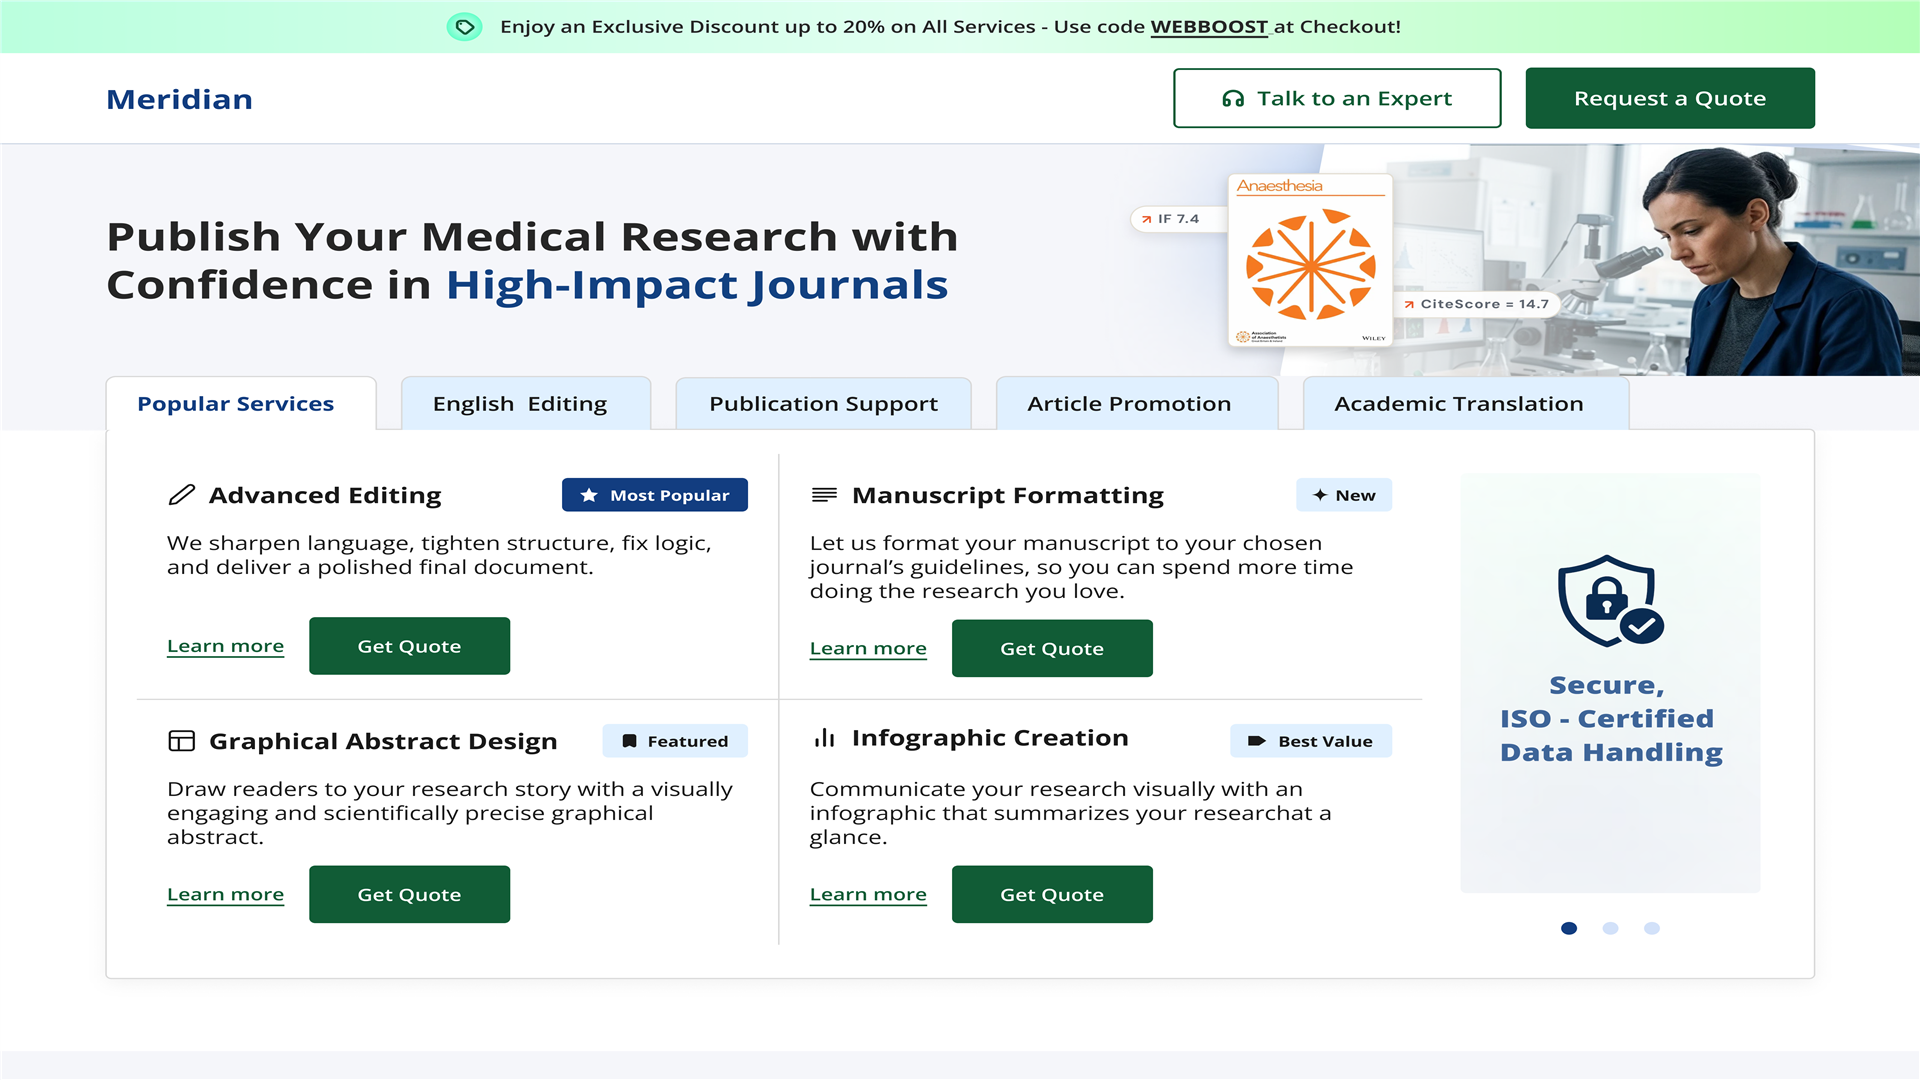
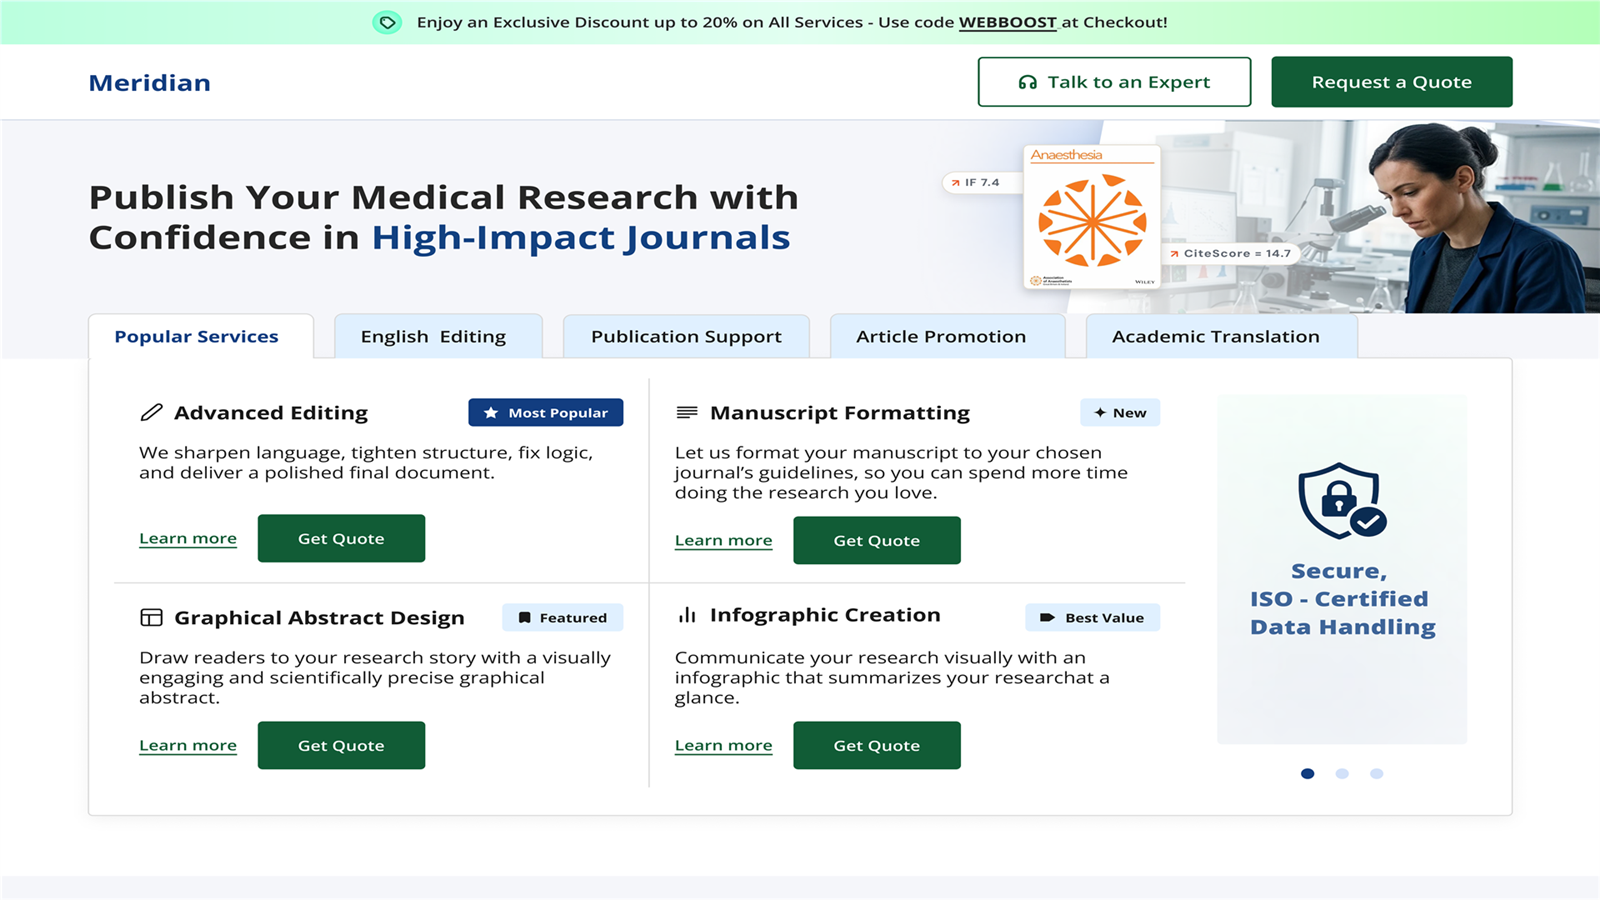
Resize images to 900px height

diff --git a/client/case-study.css b/client/case-study.css
@@ -1,6 +1,7 @@
 @import url('https://fonts.googleapis.com/css2?family=Inter:wght@400;500;600;700;800&display=swap');
 
-.case-study{--bg:#f5f7f2;--surface:#fff;--ink:#17231c;--muted:#516259;--green:#0b6b4f;--green2:#5b8f72;--pale:#e5efe8;--line:#dce6df;min-height:100vh;overflow-x:hidden;background:var(--bg);color:var(--ink);font-family:Inter,Helvetica,Arial,sans-serif;font-size:18px;line-height:1.65}.case-study *{box-sizing:border-box}.case-study .sheet{max-width:1240px;margin:auto;padding:0 48px}.case-study .masthead{padding:54px 0 86px;border-bottom:0}.case-study .journey{display:grid;grid-template-columns:repeat(4,1fr);gap:0;margin:0 0 112px;padding:0 0 24px;border-bottom:1px solid var(--line)}.case-study .journey>div{position:relative;display:grid;gap:3px;padding-right:24px}.case-study .journey>div:not(:last-child):after{content:'';position:absolute;top:8px;right:24px;width:calc(100% - 70px);height:1px;background:var(--green2)}.case-study .journey b{position:relative;z-index:1;width:max-content;padding-right:10px;background:var(--bg);color:var(--green);font-size:12px}.case-study .journey strong{font-size:16px;text-transform:uppercase;letter-spacing:.04em}.case-study .journey span{max-width:190px;color:var(--muted);font-size:13px;line-height:1.4}.case-study .masthead-top{display:flex;justify-content:space-between;gap:16px;margin-bottom:64px;color:var(--green);font:600 12px Inter,sans-serif;letter-spacing:.11em;text-transform:uppercase}.case-study .masthead-top span:last-child{color:var(--muted)}.case-study .doc-title{max-width:760px;margin:0;color:var(--ink);font:800 clamp(54px,8vw,92px)/.94 Inter,sans-serif;letter-spacing:-.07em}.case-study .doc-title em{color:var(--green);font-style:normal;font-weight:800}.case-study .doc-sub{max-width:700px;margin:34px 0 42px;color:var(--muted);font-size:23px;line-height:1.45;letter-spacing:-.025em}.case-study .byline{display:grid;grid-template-columns:repeat(4,max-content);gap:28px;padding-top:22px;color:var(--muted);font:500 13px/1.5 Inter,sans-serif;text-transform:uppercase;letter-spacing:.06em}.case-study .byline b{display:block;margin-bottom:3px;color:var(--green);font-size:11px}.case-study section{padding:112px 0;border-top:1px solid var(--line)}.case-study .abstract{padding:0 0 112px;border:0}.case-study .doc-row{display:grid;grid-template-columns:180px minmax(0,700px) 1fr;gap:36px}.case-study .margin-col{position:static;padding-top:7px}.case-study .sec-num{color:var(--green);font:700 12px Inter,sans-serif;letter-spacing:.12em}.case-study .sec-title{margin-top:10px;color:var(--muted);font:600 12px/1.35 Inter,sans-serif;letter-spacing:.08em;text-transform:uppercase}.case-study .content-col{max-width:700px}.case-study .title{margin:0 0 32px;color:var(--ink);font:700 clamp(38px,5vw,58px)/1.02 Inter,sans-serif;letter-spacing:-.055em}.case-study .content-col p{margin:0 0 22px;color:var(--muted);font-size:18px;line-height:1.65}.case-study .content-col .lead{color:var(--ink);font-size:21px;line-height:1.55}.case-study .abstract-box{max-width:700px;padding:24px 24px 24px 22px;border:1px solid var(--line);border-left:4px solid var(--ink);border-radius:4px;background:#fff;box-shadow:7px 7px 0 #e9eee9;color:var(--ink);font:500 18px/1.55 Inter,sans-serif;letter-spacing:-.01em}.case-study .abstract-box:before{display:none}.case-study .abstract-sources{display:flex;gap:8px;align-items:center}.case-study .abstract-sources span{display:inline-block;padding:3px 13px;border-radius:2px;background:#e8e9e3;color:#626b63;font:700 10px Inter,sans-serif;letter-spacing:.08em;text-transform:uppercase}.case-study .abstract-box:before{content:'THE PROJECT';display:block;margin-bottom:18px;color:var(--green);font:700 12px Inter,sans-serif;letter-spacing:.12em}.case-study .status-list{display:grid;gap:14px;margin:32px 0;padding:0;list-style:none}.case-study .status-list li{display:block;padding:14px 0;border-bottom:1px solid var(--line);color:var(--muted);font-size:15px}.case-study .traffic-pill,.case-study .status-pill{display:none}.case-study .signal-quote{margin:48px 0 10px;padding:44px 48px;background:var(--pale);border-left:5px solid var(--green);color:var(--ink);font:700 clamp(30px,4vw,48px)/1.08 Inter,sans-serif;letter-spacing:-.055em}.case-study .signal-quote span{display:none}.case-study .signal-cite{color:var(--green);font:600 12px Inter,sans-serif;letter-spacing:.08em;text-transform:uppercase}.case-study .fig{position:relative;width:100%;max-width:min(1180px,calc(100vw - 96px));margin:58px 0 20px}.case-study .fig-frame{position:relative;overflow:hidden;border:1px solid var(--line);border-radius:6px;background:var(--surface);box-shadow:none}.case-study .fig-frame img{display:block;max-width:100%;width:auto;height:auto;max-height:85vh;border-radius:4px;background:#f5f2ea;margin:0 auto}.case-study .tag{display:block;margin-bottom:14px;color:var(--green);font:700 11px Inter,sans-serif;letter-spacing:.1em;text-transform:uppercase}.case-study figcaption{margin-top:14px;color:var(--muted);font:500 12px Inter,sans-serif;letter-spacing:.04em}.case-study .marker{position:absolute;width:28px;height:28px;background:var(--green);box-shadow:0 0 0 3px #fff;color:#fff;font:700 11px Inter,sans-serif;display:grid;place-items:center;border-radius:50%}.case-study .marker.one{top:12px;left:12px}.case-study .marker.two{top:12px;right:12px}.case-study .annot-list{display:grid;gap:12px;margin:28px 0;padding:0;list-style:none}.case-study .annot-list li{display:grid;grid-template-columns:28px 1fr;gap:14px;color:var(--muted);font-size:15px}.case-study .annot-list .num{display:grid;place-items:center;width:23px;height:23px;border-radius:50%;background:var(--pale);color:var(--green);font:700 11px Inter,sans-serif}.case-study .redline-list{margin:48px 0;padding:0;border-top:1px solid var(--line);list-style:none}.case-study .redline-list li{display:grid;grid-template-columns:150px 1fr;gap:24px;padding:24px 0;border-bottom:1px solid var(--line)}.case-study .redline-label{color:var(--green);font:700 12px Inter,sans-serif;letter-spacing:.09em;text-transform:uppercase}.case-study .redline-body del,.case-study .redline-body ins{display:block;padding:0;text-decoration:none}.case-study .redline-body del{margin-bottom:8px;color:#84928a;text-decoration:line-through;text-decoration-color:var(--green2)}.case-study .redline-body ins{color:var(--ink);background:none;border:0}.case-study .subhead{margin:52px 0 12px;color:var(--ink);font-size:20px}.case-study .stat-note{color:var(--muted);font-size:17px}.case-study .stat-strip{display:grid;grid-template-columns:repeat(4,1fr);gap:12px;margin-top:40px;border:0}.case-study .stat{padding:26px 20px;border:1px solid var(--line);border-radius:6px;background:var(--surface)}.case-study .stat .num{display:block;color:var(--green);font:700 clamp(24px,3vw,38px)/1.1 Inter,sans-serif;letter-spacing:-.05em}.case-study .stat .lbl{display:block;margin-top:10px;color:var(--muted);font:600 11px Inter,sans-serif;letter-spacing:.08em;text-transform:uppercase}.case-study .baseline-flag{display:inline-block;margin:20px 0;padding:6px 0;color:var(--green);background:none;font:700 11px Inter,sans-serif;letter-spacing:.1em;text-transform:uppercase}.case-study .principles{margin-top:18px;border-top:1px solid var(--line)}.case-study .principle{display:grid;grid-template-columns:70px 1fr;gap:24px;padding:32px 0;border-bottom:1px solid var(--line)}.case-study .rn{color:var(--green);font:700 28px Inter,sans-serif}.case-study .principle h3{margin:0 0 8px;color:var(--ink);font-size:21px;letter-spacing:-.02em}.case-study .principle p{margin:0;color:var(--muted);font-size:16px}.case-study .timeline-block{margin-top:72px}.case-study .timeline-block h3{margin:0 0 28px;color:var(--ink);font:700 24px Inter,sans-serif;letter-spacing:-.03em}.case-study .timeline-block h3:after{content:'';display:block;width:42px;height:3px;margin-top:12px;background:var(--green)}.case-study .timeline-list{position:relative;margin-left:8px;padding:4px 0 4px 28px;border-left:1px solid var(--green2)}.case-study .timeline-item{position:relative;padding:0 0 14px}.case-study .timeline-item:before{content:'';position:absolute;top:21px;left:-33px;width:8px;height:8px;border:2px solid var(--bg);border-radius:50%;background:var(--green)}.case-study .timeline-card{padding:16px 0;border:0;background:none;box-shadow:none}.case-study .timeline-card time{color:var(--green);font:600 11px Inter,sans-serif}.case-study .timeline-card h4{margin:3px 0;color:var(--ink);font-size:15px}.case-study .timeline-card ul{margin:0;padding-left:16px;color:var(--muted);font-size:14px}.case-study .colophon{margin-top:0;padding:100px 0 80px;border-top:1px solid var(--line)}.case-study .colophon-grid{display:grid;grid-template-columns:repeat(3,1fr);gap:24px;color:var(--muted);font:13px/1.7 Inter,sans-serif}.case-study .colophon-grid b{display:block;margin-bottom:7px;color:var(--green);font:700 11px Inter,sans-serif;letter-spacing:.1em;text-transform:uppercase}.case-study .fine{max-width:620px;margin-top:44px;color:#76847b;font:12px/1.7 Inter,sans-serif}@media(max-width:900px){.case-study .sheet{padding:0 28px}.case-study .doc-row{grid-template-columns:100px minmax(0,1fr);gap:24px}.case-study .fig{width:100%}.case-study .byline{grid-template-columns:repeat(2,1fr)}}@media(max-width:700px){.case-study .journey{grid-template-columns:repeat(2,1fr);gap:22px;margin-bottom:76px}.case-study .journey>div:not(:last-child):after{display:none}.case-study .masthead{padding:32px 0 64px}.case-study .masthead-top{margin-bottom:48px;font-size:10px}.case-study .doc-title{font-size:clamp(48px,14vw,72px)}.case-study .doc-sub{font-size:20px}.case-study .byline{grid-template-columns:repeat(2,1fr);gap:20px 12px}.case-study section{padding:76px 0}.case-study .abstract{padding-bottom:76px}.case-study .doc-row{display:block}.case-study .margin-col{margin-bottom:22px}.case-study .title{font-size:40px}.case-study .abstract-box{font-size:21px}.case-study .signal-quote{padding:30px 24px;font-size:32px}.case-study .redline-list li{grid-template-columns:1fr;gap:8px}.case-study .stat-strip{grid-template-columns:repeat(2,1fr)}.case-study .stat{padding:18px 14px}.case-study .principle{grid-template-columns:45px 1fr;gap:14px}.case-study .colophon-grid{grid-template-columns:1fr}}
+.case-study{--bg:#f5f7f2;--surface:#fff;--ink:#17231c;--muted:#516259;--green:#0b6b4f;--green2:#5b8f72;--pale:#e5efe8;--line:#dce6df;min-height:100vh;overflow-x:hidden;background:var(--bg);color:var(--ink);font-family:Inter,Helvetica,Arial,sans-serif;font-size:18px;line-height:1.65}.case-study *{box-sizing:border-box}.case-study .sheet{max-width:1240px;margin:auto;padding:0 48px}.case-study .masthead{padding:54px 0 86px;border-bottom:0}.case-study .journey{display:grid;grid-template-columns:repeat(4,1fr);gap:0;margin:0 0 112px;padding:0 0 24px;border-bottom:1px solid var(--line)}.case-study .journey>div{position:relative;display:grid;gap:3px;padding-right:24px}.case-study .journey>div:not(:last-child):after{content:'';position:absolute;top:8px;right:24px;width:calc(100% - 70px);height:1px;background:var(--green2)}.case-study .journey b{position:relative;z-index:1;width:max-content;padding-right:10px;background:var(--bg);color:var(--green);font-size:12px}.case-study .journey strong{font-size:16px;text-transform:uppercase;letter-spacing:.04em}.case-study .journey span{max-width:190px;color:var(--muted);font-size:13px;line-height:1.4}.case-study .masthead-top{display:flex;justify-content:space-between;gap:16px;margin-bottom:64px;color:var(--green);font:600 12px Inter,sans-serif;letter-spacing:.11em;text-transform:uppercase}.case-study .masthead-top span:last-child{color:var(--muted)}.case-study .doc-title{max-width:760px;margin:0;color:var(--ink);font:800 clamp(54px,8vw,92px)/.94 Inter,sans-serif;letter-spacing:-.07em}.case-study .doc-title em{color:var(--green);font-style:normal;font-weight:800}.case-study .doc-sub{max-width:700px;margin:34px 0 42px;color:var(--muted);font-size:23px;line-height:1.45;letter-spacing:-.025em}.case-study .byline{display:grid;grid-template-columns:repeat(4,max-content);gap:28px;padding-top:22px;color:var(--muted);font:500 13px/1.5 Inter,sans-serif;text-transform:uppercase;letter-spacing:.06em}.case-study .byline b{display:block;margin-bottom:3px;color:var(--green);font-size:11px}.case-study section{padding:112px 0;border-top:1px solid var(--line)}.case-study .abstract{padding:0 0 112px;border:0}.case-study .doc-row{display:grid;grid-template-columns:180px minmax(0,700px) 1fr;gap:36px}.case-study .margin-col{position:static;padding-top:7px}.case-study .sec-num{color:var(--green);font:700 12px Inter,sans-serif;letter-spacing:.12em}.case-study .sec-title{margin-top:10px;color:var(--muted);font:600 12px/1.35 Inter,sans-serif;letter-spacing:.08em;text-transform:uppercase}.case-study .content-col{max-width:700px}.case-study .title{margin:0 0 32px;color:var(--ink);font:700 clamp(38px,5vw,58px)/1.02 Inter,sans-serif;letter-spacing:-.055em}.case-study .content-col p{margin:0 0 22px;color:var(--muted);font-size:18px;line-height:1.65}.case-study .content-col .lead{color:var(--ink);font-size:21px;line-height:1.55}.case-study .abstract-box{max-width:700px;padding:24px 24px 24px 22px;border:1px solid var(--line);border-left:4px solid var(--ink);border-radius:4px;background:#fff;box-shadow:7px 7px 0 #e9eee9;color:var(--ink);font:500 18px/1.55 Inter,sans-serif;letter-spacing:-.01em}.case-study .abstract-box:before{display:none}.case-study .abstract-sources{display:flex;gap:8px;align-items:center}.case-study .abstract-sources span{display:inline-block;padding:3px 13px;border-radius:2px;background:#e8e9e3;color:#626b63;font:700 10px Inter,sans-serif;letter-spacing:.08em;text-transform:uppercase}.case-study .abstract-box:before{content:'THE PROJECT';display:block;margin-bottom:18px;color:var(--green);font:700 12px Inter,sans-serif;letter-spacing:.12em}.case-study .status-list{display:grid;gap:14px;margin:32px 0;padding:0;list-style:none}.case-study .status-list li{display:block;padding:14px 0;border-bottom:1px solid var(--line);color:var(--muted);font-size:15px}.case-study .traffic-pill,.case-study .status-pill{display:none}.case-study .signal-quote{margin:48px 0 10px;padding:44px 48px;background:var(--pale);border-left:5px solid var(--green);color:var(--ink);font:700 clamp(30px,4vw,48px)/1.08 Inter,sans-serif;letter-spacing:-.055em}.case-study .signal-quote span{display:none}.case-study .signal-cite{color:var(--green);font:600 12px Inter,sans-serif;letter-spacing:.08em;text-transform:uppercase}.case-study .fig{position:relative;width:100%;max-width:min(1180px,calc(100vw - 96px));margin:58px 0 20px}.case-study .fig-frame{position:relative;overflow:hidden;border:1px solid var(--line);border-radius:6px;background:var(--surface);box-shadow:none}.case-study .fig-frame img{display:block;max-width:100%;height:auto;max-height:85vh;object-fit:contain;border-radius:4px;background:#f5f2ea;margin:0 auto}.case-study .tag{display:block;margin-bottom:14px;color:var(--green);font:700 11px Inter,sans-serif;letter-spacing:.1em;text-transform:uppercase}.case-study figcaption{margin-top:14px;color:var(--muted);font:500 12px Inter,sans-serif;letter-spacing:.04em}.case-study .marker{position:absolute;width:28px;height:28px;background:var(--green);box-shadow:0 0 0 3px #fff;color:#fff;font:700 11px Inter,sans-serif;display:grid;place-items:center;border-radius:50%}.case-study .marker.one{top:12px;left:12px}.case-study .marker.two{top:12px;right:12px}.case-study .annot-list{display:grid;gap:12px;margin:28px 0;padding:0;list-style:none}.case-study .annot-list li{display:grid;grid-template-columns:28px 1fr;gap:14px;color:var(--muted);font-size:15px}.case-study .annot-list .num{display:grid;place-items:center;width:23px;height:23px;border-radius:50%;background:var(--pale);color:var(--green);font:700 11px Inter,sans-serif}.case-study .redline-list{margin:48px 0;padding:0;border-top:1px solid var(--line);list-style:none}.case-study .redline-list li{display:grid;grid-template-columns:150px 1fr;gap:24px;padding:24px 0;border-bottom:1px solid var(--line)}.case-study .redline-label{color:var(--green);font:700 12px Inter,sans-serif;letter-spacing:.09em;text-transform:uppercase}.case-study .redline-body del,.case-study .redline-body ins{display:block;padding:0;text-decoration:none}.case-study .redline-body del{margin-bottom:8px;color:#84928a;text-decoration:line-through;text-decoration-color:var(--green2)}.case-study .redline-body ins{color:var(--ink);background:none;border:0}.case-study .subhead{margin:52px 0 12px;color:var(--ink);font-size:20px}.case-study .stat-note{color:var(--muted);font-size:17px}.case-study .stat-strip{display:grid;grid-template-columns:repeat(4,1fr);gap:12px;margin-top:40px;border:0}.case-study .stat{padding:26px 20px;border:1px solid var(--line);border-radius:6px;background:var(--surface)}.case-study .stat .num{display:block;color:var(--green);font:700 clamp(24px,3vw,38px)/1.1 Inter,sans-serif;letter-spacing:-.05em}.case-study .stat .lbl{display:block;margin-top:10px;color:var(--muted);font:600 11px Inter,sans-serif;letter-spacing:.08em;text-transform:uppercase}.case-study .baseline-flag{display:inline-block;margin:20px 0;padding:6px 0;color:var(--green);background:none;font:700 11px Inter,sans-serif;letter-spacing:.1em;text-transform:uppercase}.case-study .principles{margin-top:18px;border-top:1px solid var(--line)}.case-study .principle{display:grid;grid-template-columns:70px 1fr;gap:24px;padding:32px 0;border-bottom:1px solid var(--line)}.case-study .rn{color:var(--green);font:700 28px Inter,sans-serif}.case-study .principle h3{margin:0 0 8px;color:var(--ink);font-size:21px;letter-spacing:-.02em}.case-study .principle p{margin:0;color:var(--muted);font-size:16px}.case-study .timeline-block{margin-top:72px}.case-study .timeline-block h3{margin:0 0 28px;color:var(--ink);font:700 24px Inter,sans-serif;letter-spacing:-.03em}.case-study .timeline-block h3:after{content:'';display:block;width:42px;height:3px;margin-top:12px;background:var(--green)}.case-study .timeline-list{position:relative;margin-left:8px;padding:4px 0 4px 28px;border-left:1px solid var(--green2)}.case-study .timeline-item{position:relative;padding:0 0 14px}.case-study .timeline-item:before{content:'';position:absolute;top:21px;left:-33px;width:8px;height:8px;border:2px solid var(--bg);border-radius:50%;background:var(--green)}.case-study .timeline-card{padding:16px 0;border:0;background:none;box-shadow:none}.case-study .timeline-card time{color:var(--green);font:600 11px Inter,sans-serif}.case-study .timeline-card h4{margin:3px 0;color:var(--ink);font-size:15px}.case-study .timeline-card ul{margin:0;padding-left:16px;color:var(--muted);font-size:14px}.case-study .colophon{margin-top:0;padding:100px 0 80px;border-top:1px solid var(--line)}.case-study .colophon-grid{display:grid;grid-template-columns:repeat(3,1fr);gap:24px;color:var(--muted);font:13px/1.7 Inter,sans-serif}.case-study .colophon-grid b{display:block;margin-bottom:7px;color:var(--green);font:700 11px Inter,sans-serif;letter-spacing:.1em;text-transform:uppercase}.case-study .fine{max-width:620px;margin-top:44px;color:#76847b;font:12px/1.7 Inter,sans-serif}@media(max-width:900px){.case-study .sheet{padding:0 28px}.case-study .doc-row{grid-template-columns:100px minmax(0,1fr);gap:24px}.case-study .fig{width:100%}.case-study .byline{grid-template-columns:repeat(2,1fr)}}@media(max-width:700px){.case-study .journey{grid-template-columns:repeat(2,1fr);gap:22px;margin-bottom:76px}.case-study .journey>div:not(:last-child):after{display:none}.case-study .masthead{padding:32px 0 64px}.case-study .masthead-top{margin-bottom:48px;font-size:10px}.case-study .doc-title{font-size:clamp(48px,14vw,72px)}.case-study .doc-sub{font-size:20px}.case-study .byline{grid-template-columns:repeat(2,1fr);gap:20px 12px}.case-study section{padding:76px 0}.case-study .abstract{padding-bottom:76px}.case-study .doc-row{display:block}.case-study .margin-col{margin-bottom:22px}.case-study .title{font-size:40px}.case-study .abstract-box{font-size:21px}.case-study .signal-quote{padding:30px 24px;font-size:32px}.case-study .redline-list li{grid-template-columns:1fr;gap:8px}.case-study .stat-strip{grid-template-columns:repeat(2,1fr)}.case-study .stat{padding:18px 14px}.case-study .principle{grid-template-columns:45px 1fr;gap:14px}.case-study .colophon-grid{grid-template-columns:1fr}}
+
 
 
 
